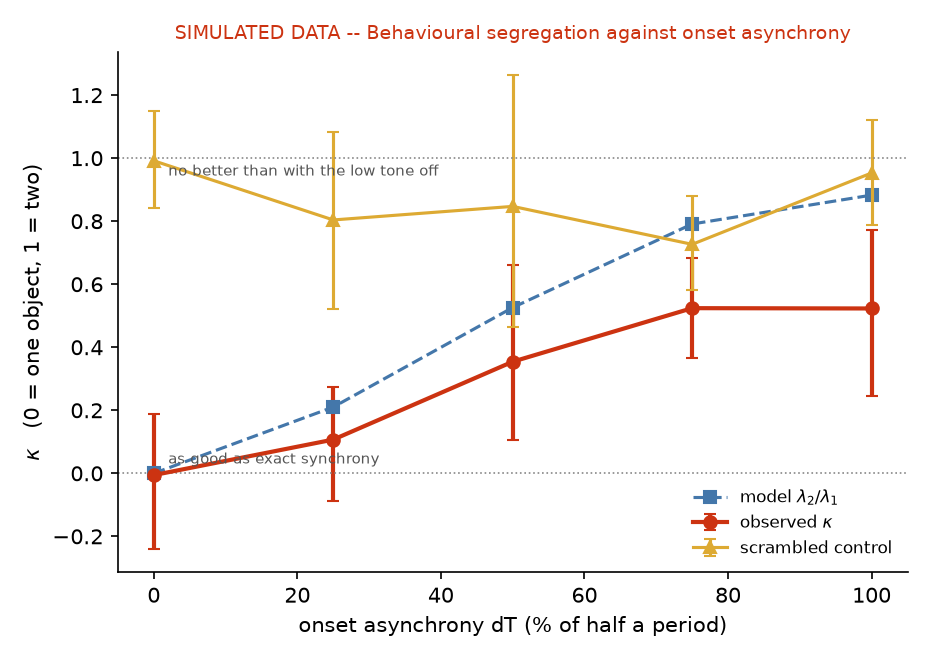
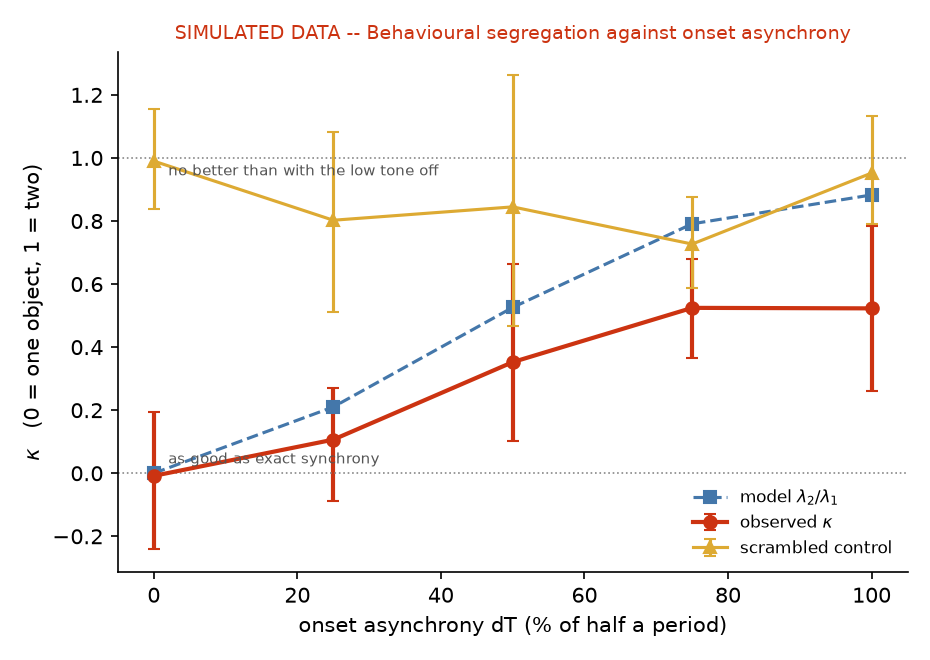
Illustrate one trial, magnified where the difference actually lives
A whole-trial view cannot show the manipulation: at threshold delta is a few
milliseconds against a trial nearly three seconds long, about one part in a
thousand, and the first version of this figure duly drew a red arrow two pixels
wide. So the figure has two rows -- the structure above, the ending magnified
below -- and the tone that moved is shown beside a dashed outline of where it
should have been.

The drawn shift is EARLY rather than late, for drawing rather than for science: a
late shift at an intermediate dT slides the last B tone onto the last A tone, so
the interval that is supposed to look wrong comes out looking better aligned than
the other one. In the experiment the direction is randomised per trial.

diff --git a/tcoh/plots.py b/tcoh/plots.py
@@ -2,7 +2,8 @@
 
 The set is deliberately small, because each answers a question someone will ask:
 
-    schematic       what does the stimulus actually look like at each dT?
+    trial           what is the listener actually asked, on one trial?
+    schematic       what does the stimulus look like at each dT?
     envelopes       what does the coherence model see, and why does the index move?
     prediction      what is being predicted, with the spread across defensible readings
     tracks          did the staircases converge, or did they wander?
@@ -79,6 +80,116 @@ def schematic(cfg: Config, pcts: Optional[Sequence[float]] = None, path: Optiona
                  "Only the last B tone (outlined) moves; A never moves; B's grid is the same in "
                  "every row.", fontsize=9)
     fig.subplots_adjust(left=0.14, right=0.98, top=0.86, bottom=0.09, hspace=0.45)
+    if path:
+        fig.savefig(path, dpi=150)
+        plt.close(fig)
+    return fig
+
+
+def trial(cfg: Config, lag_pct: float = 50.0, delta_ms: float = 40.0,
+          target_position: int = 2, direction: int = -1, path: Optional[Path] = None):
+    """One whole trial, plus a zoom on the ending where the one difference lives.
+
+    The `schematic` figure shows what changes across conditions; this shows what the listener
+    is actually asked on a single trial, which is the question people ask first.
+
+    The zoom is not decoration. At threshold delta is a few milliseconds against a trial nearly
+    three seconds long -- about one part in a thousand -- so a whole-trial view cannot show the
+    manipulation at all, and a first version of this figure duly showed a red arrow two pixels
+    wide. The top row is for the structure; the bottom row is for the thing being detected.
+
+    `direction` defaults to -1, an EARLY shift, for drawing rather than for science: a late
+    shift at an intermediate dT slides the last B tone onto the last A tone, so the interval
+    that is supposed to look wrong comes out looking more aligned than the other one. In the
+    experiment the direction is randomised per trial and both are logged.
+    """
+    delta_ms = abs(delta_ms)
+    signed = delta_ms * (1 if direction >= 0 else -1)
+    plt = _mpl()
+    d = validate(cfg)
+    b = b_onsets(cfg)
+    a = b + cfg.lag_ms(lag_pct)
+    iv_ms = float(b[-1] + cfg.tone_ms + cfg.tail_ms)
+    gap = cfg.isi_ms
+
+    fig = plt.figure(figsize=(11, 5.4))
+    gs = fig.add_gridspec(2, 2, height_ratios=[1.15, 1.0], hspace=0.62, wspace=0.10)
+    top = fig.add_subplot(gs[0, :])
+
+    def draw(ax, off, shift, tone_w=None):
+        for on in a:
+            ax.add_patch(plt.Rectangle((off + on, 0.08), cfg.tone_ms, 0.34, fc="#4477aa", ec="none"))
+        for i, on in enumerate(b):
+            last = i == b.size - 1
+            x = off + on + (shift if last else 0.0)
+            ax.add_patch(plt.Rectangle((x, 0.56), cfg.tone_ms, 0.34,
+                                       fc="#cc6677" if last else "#88aacc", ec="none"))
+            if last and shift:
+                ax.add_patch(plt.Rectangle((off + on, 0.56), cfg.tone_ms, 0.34, fc="none",
+                                           ec="#cc3311", ls=(0, (3, 2)), lw=1.4))
+
+    # ---- whole trial ----------------------------------------------------------
+    for which in (1, 2):
+        off = 0.0 if which == 1 else iv_ms + gap
+        shift = signed if which == target_position else 0.0
+        draw(top, off, shift)
+        top.text(off + iv_ms / 2, 1.30,
+                 f"interval {which}" + ("   \u2190 the odd one out" if shift else ""),
+                 ha="center", va="center", fontsize=10.5,
+                 color="#cc3311" if shift else "#333333",
+                 fontweight="bold" if shift else "normal")
+        top.add_patch(plt.Rectangle((off, 0.02), iv_ms, 0.94, fc="none", ec="#bbbbbb", lw=0.8))
+    top.annotate("", (iv_ms + gap, 0.49), (iv_ms, 0.49),
+                 arrowprops=dict(arrowstyle="<->", color="#888888", lw=1))
+    top.text(iv_ms + gap / 2, 0.43, f"{gap:g} ms", ha="center", va="top", fontsize=8.5,
+             color="#666666")
+    top.set_xlim(-60, 2 * iv_ms + gap + 60)
+    top.set_ylim(0, 1.5)
+    top.set_yticks([0.25, 0.73])
+    top.set_yticklabels([f"A  {cfg.f_a_hz:.0f} Hz", f"B  {d.f_b_hz:.0f} Hz"], fontsize=9)
+    top.set_xlabel("time (ms)", fontsize=9)
+    top.tick_params(axis="y", length=0)
+    for sp in ("top", "right", "left"):
+        top.spines[sp].set_visible(False)
+
+    # ---- the ending of each interval, magnified ---------------------------------
+    win_lo = float(b[-2]) - 30.0 - delta_ms
+    win_hi = float(b[-1]) + cfg.tone_ms + delta_ms + 40.0
+    for col, which in enumerate((1, 2)):
+        ax = fig.add_subplot(gs[1, col])
+        shift = signed if which == target_position else 0.0
+        draw(ax, 0.0, shift)
+        ax.set_xlim(win_lo, win_hi)
+        ax.set_ylim(0, 1.45)
+        ax.set_yticks([0.25, 0.73])
+        ax.set_yticklabels([f"A", f"B"] if col == 0 else ["", ""], fontsize=9)
+        ax.tick_params(axis="y", length=0, labelsize=8)
+        ax.tick_params(axis="x", labelsize=8)
+        for sp in ("top", "right", "left"):
+            ax.spines[sp].set_visible(False)
+        if shift:
+            y = 1.10
+            ax.annotate("", (float(b[-1]) + shift, y), (float(b[-1]), y),
+                        arrowprops=dict(arrowstyle="->", color="#cc3311", lw=2))
+            ax.text(float(b[-1]) + shift / 2, y + 0.05,
+                    f"$\\delta$ = {delta_ms:g} ms {'early' if shift < 0 else 'late'}",
+                    ha="center", va="bottom", fontsize=9.5, color="#cc3311")
+            ax.text(float(b[-1]) + cfg.tone_ms / 2, 0.50, "where it should have been",
+                    ha="center", va="center", fontsize=7.5, color="#cc3311")
+            ax.set_title("interval 2, magnified  \u2014  the last B tone has moved",
+                         fontsize=9.5, color="#cc3311")
+        else:
+            ax.text(float(b[-1]) + cfg.tone_ms / 2, 1.10, "in step", ha="center", va="bottom",
+                    fontsize=9, color="#666666")
+            ax.set_title("interval 1, magnified  \u2014  nothing has moved", fontsize=9.5,
+                         color="#333333")
+        ax.set_xlabel("time (ms)", fontsize=8)
+
+    fig.suptitle("One trial.  The two sounds are identical except that in ONE of them the last "
+                 "high tone is out of place.\n"
+                 f"Which one?   Drawn at $\\Delta$T = {lag_pct:g}% and with $\\delta$ "
+                 "exaggerated; at threshold it is a few milliseconds.", fontsize=10.5)
+    fig.subplots_adjust(left=0.09, right=0.985, top=0.84, bottom=0.09)
     if path:
         fig.savefig(path, dpi=150)
         plt.close(fig)
@@ -285,7 +396,8 @@ def write_all(cfg: Config, outdir: Path, rows: Optional[Sequence[dict]] = None,
     outdir = Path(outdir)
     outdir.mkdir(parents=True, exist_ok=True)
     made = []
-    for name, fn in (("schematic", lambda p: schematic(cfg, path=p)),
+    for name, fn in (("trial", lambda p: trial(cfg, path=p)),
+                     ("schematic", lambda p: schematic(cfg, path=p)),
                      ("envelopes", lambda p: envelopes(cfg, path=p)),
                      ("prediction", lambda p: prediction(cfg, path=p))):
         p = outdir / f"tcoh_{name}.png"

diff --git a/tcoh/README.md b/tcoh/README.md
@@ -27,6 +27,11 @@ and thresholds are an order of magnitude worse. Sweeping ΔT and normalising the
 between those two endpoints gives a behavioural quantity on the same 0-to-1 scale as the
 model's λ₂/λ₁.
 
+![one trial](verification/tcoh_trial.png)
+
+And the same stimulus across the whole ΔT sweep — note that only the outlined tone ever moves,
+and the high tone's grid is identical in every row:
+
 ![the stimulus at each asynchrony](verification/tcoh_schematic.png)
 
 ## Quick start

diff --git a/README.md b/README.md
@@ -1255,6 +1255,8 @@ are normalised between two conditions measured in the same session — ΔT = 0% 
 B-only (low tone switched off) — giving a behavioural quantity on the same 0-to-1 scale as
 λ₂/λ₁, with no free parameter.
 
+![one trial of the two-tone coherence task](tcoh/verification/tcoh_trial.png)
+
 ```bash
 python -m tcoh design      # conditions, geometry, duration
 python -m tcoh model       # the prediction, checked against the published figure
